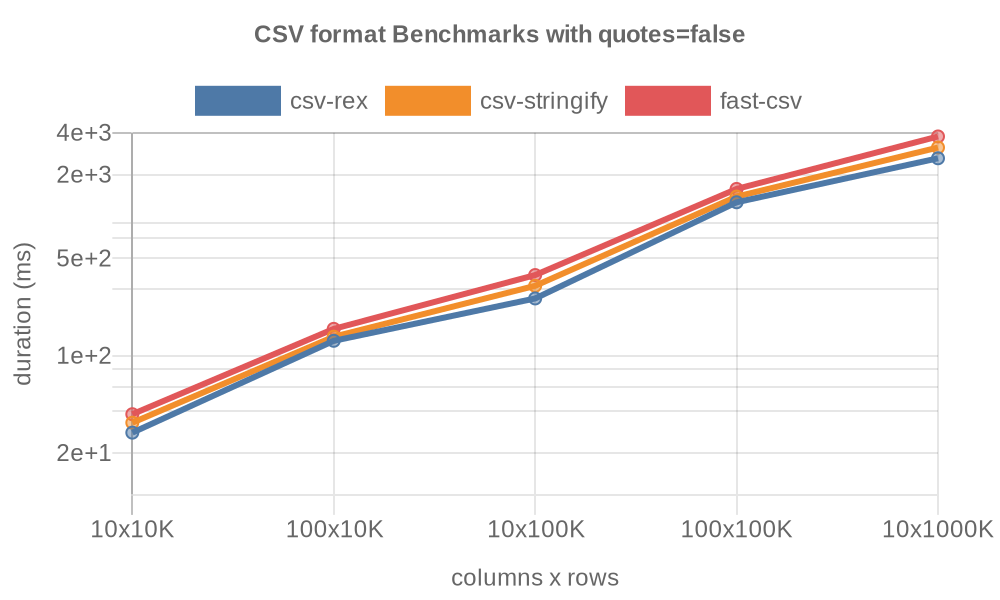
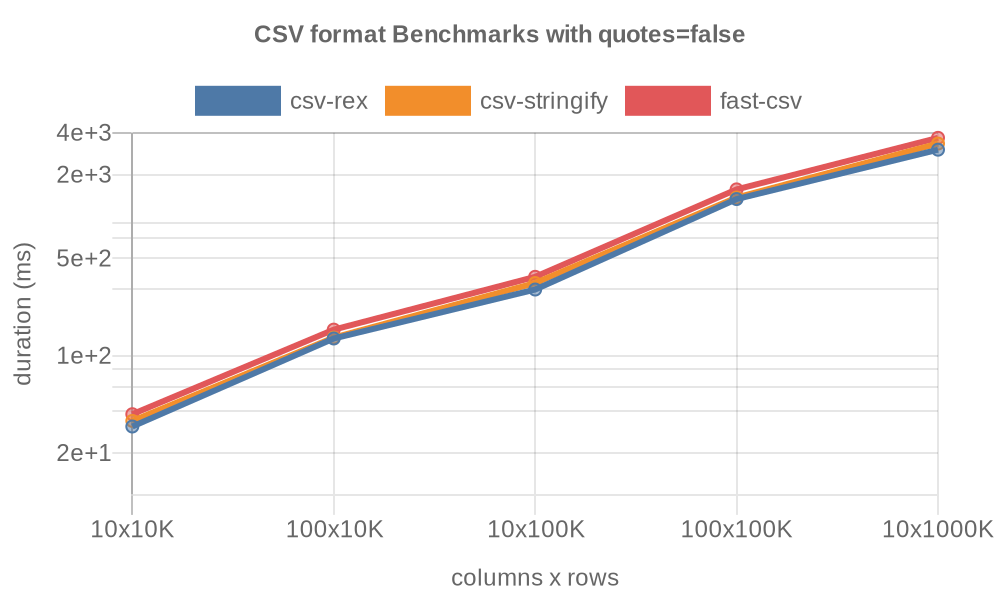
ci: update results

Changed region(s): [[0.124, 0.21, 0.961, 0.75]]

diff --git a/README.md b/README.md
@@ -5,14 +5,14 @@ Benchmarks of popular CSV parsers and formatters:
 <!-- packages -->
 | Package | Version | Published | Parse | Format 
 |---------|---------|-----------|-------|--------
-| [csv-parse](https://www.npmjs.com/package/csv-parse) | 5.3.3 | 1 month ago | Yes |  
+| [csv-parse](https://www.npmjs.com/package/csv-parse) | 5.3.4 | 1 day ago | Yes |  
 | [csv-parser](https://www.npmjs.com/package/csv-parser) | 3.0.0 | 2 years ago | Yes |  
-| [csv-rex](https://www.npmjs.com/package/csv-rex) | 0.4.2 | 4 months ago | Yes | Yes 
+| [csv-rex](https://www.npmjs.com/package/csv-rex) | 0.4.2 | 5 months ago | Yes | Yes 
 | [csv-streamify](https://www.npmjs.com/package/csv-streamify) | 4.0.0 | 5 years ago | Yes |  
-| [csv-stringify](https://www.npmjs.com/package/csv-stringify) | 6.2.3 | 1 month ago |  | Yes 
+| [csv-stringify](https://www.npmjs.com/package/csv-stringify) | 6.2.3 | 2 months ago |  | Yes 
 | [csvtojson](https://www.npmjs.com/package/csvtojson) | 2.0.10 | 4 years ago | Yes |  
 | [fast-csv](https://www.npmjs.com/package/fast-csv) | 4.3.6 | 2 years ago | Yes | Yes 
-| [papaparse](https://www.npmjs.com/package/papaparse) | 5.3.2 | 10 months ago | Yes |  
+| [papaparse](https://www.npmjs.com/package/papaparse) | 5.3.2 | 11 months ago | Yes |  
 <!-- packages -->
 
 Your preferred CSV package missing? PRs welcome. Excluded packages in `/docs/EXCLUDED.md`.
@@ -39,13 +39,13 @@ Benchmarked on GitHub Actions. Only the fastest 5 will be visualized.
 <!-- parse quotes=true -->
 | Package | 10x10K | 100x10K | 10x100K | 100x100K | 10x1000K 
 |---------|---|---|---|---|---
-| **csv-rex** | 32ms | 234ms | 295ms | 2,362ms | 2,952ms 
-| **papaparse** | 58ms | 264ms | 543ms | 2,689ms | 5,540ms 
-| **csv-parser** | 50ms | 445ms | 505ms | 4,794ms | 5,438ms 
-| **csvtojson** | 76ms | 572ms | 742ms | 5,735ms | 7,532ms 
-| **csv-parse** | 98ms | 842ms | 987ms | 8,609ms | 10,177ms 
-| **csv-streamify** | 102ms | 976ms | 1,141ms | 10,851ms | 12,549ms 
-| **fast-csv** | 153ms | 1,311ms | 1,538ms | 13,542ms | 15,651ms 
+| **csv-rex** | 32ms | 236ms | 301ms | 2,380ms | 3,020ms 
+| **papaparse** | 58ms | 273ms | 565ms | 2,721ms | 5,716ms 
+| **csv-parser** | 51ms | 442ms | 508ms | 4,770ms | 5,489ms 
+| **csvtojson** | 74ms | 571ms | 722ms | 5,740ms | 7,414ms 
+| **csv-parse** | 99ms | 836ms | 975ms | 8,695ms | 10,041ms 
+| **csv-streamify** | 99ms | 943ms | 1,100ms | 10,382ms | 12,089ms 
+| **fast-csv** | 149ms | 1,283ms | 1,504ms | 13,287ms | 15,520ms 
 <!-- parse quotes=true -->
 
 ![Non-Quoted CSV Parser Benchmarks](https://github.com/willfarrell/csv-benchmarks/raw/main/results/parse_quotes%3Dfalse.png)
@@ -53,13 +53,13 @@ Benchmarked on GitHub Actions. Only the fastest 5 will be visualized.
 <!-- parse quotes=false -->
 | Package | 10x10K | 100x10K | 10x100K | 100x100K | 10x1000K 
 |---------|---|---|---|---|---
-| **csv-rex** | 12ms | 55ms | 105ms | 546ms | 1,053ms 
-| **csvtojson** | 43ms | 309ms | 436ms | 3,124ms | 4,385ms 
-| **csv-parser** | 42ms | 379ms | 437ms | 4,105ms | 4,732ms 
-| **papaparse** | 178ms | 77ms | 1,562ms | 698ms | 14,099ms 
-| **csv-parse** | 74ms | 658ms | 781ms | 7,176ms | 8,537ms 
-| **csv-streamify** | 84ms | 846ms | 999ms | 9,606ms | 11,276ms 
-| **fast-csv** | 119ms | 1,046ms | 1,237ms | 10,933ms | 13,414ms 
+| **csv-rex** | 12ms | 55ms | 110ms | 550ms | 1,108ms 
+| **csvtojson** | 43ms | 314ms | 424ms | 3,140ms | 4,288ms 
+| **csv-parser** | 43ms | 389ms | 462ms | 4,204ms | 4,811ms 
+| **papaparse** | 179ms | 79ms | 1,569ms | 740ms | 14,129ms 
+| **csv-parse** | 74ms | 653ms | 779ms | 7,110ms | 8,402ms 
+| **csv-streamify** | 86ms | 870ms | 1,022ms | 9,825ms | 11,495ms 
+| **fast-csv** | 119ms | 1,046ms | 1,229ms | 10,822ms | 13,376ms 
 <!-- parse quotes=false -->
 
 ### Format
@@ -69,9 +69,9 @@ Benchmarked on GitHub Actions. Only the fastest 5 will be visualized.
 <!-- format quotes=false -->
 | Package | 10x10K | 100x10K | 10x100K | 100x100K | 10x1000K 
 |---------|---|---|---|---|---
-| **csv-rex** | 28ms | 128ms | 258ms | 1,267ms | 2,624ms 
-| **csv-stringify** | 33ms | 137ms | 318ms | 1,392ms | 3,136ms 
-| **fast-csv** | 38ms | 156ms | 380ms | 1,580ms | 3,765ms 
+| **csv-rex** | 31ms | 133ms | 299ms | 1,336ms | 3,025ms 
+| **csv-stringify** | 34ms | 135ms | 333ms | 1,370ms | 3,347ms 
+| **fast-csv** | 38ms | 154ms | 369ms | 1,568ms | 3,680ms 
 <!-- format quotes=false -->
 
 ## Thanks

diff --git a/results/parse_quotes=true.md b/results/parse_quotes=true.md
@@ -1,9 +1,9 @@
 | Package | 10x10K | 100x10K | 10x100K | 100x100K | 10x1000K 
 |---------|---|---|---|---|---
-| **csv-rex** | 32ms | 234ms | 295ms | 2,362ms | 2,952ms 
-| **papaparse** | 58ms | 264ms | 543ms | 2,689ms | 5,540ms 
-| **csv-parser** | 50ms | 445ms | 505ms | 4,794ms | 5,438ms 
-| **csvtojson** | 76ms | 572ms | 742ms | 5,735ms | 7,532ms 
-| **csv-parse** | 98ms | 842ms | 987ms | 8,609ms | 10,177ms 
-| **csv-streamify** | 102ms | 976ms | 1,141ms | 10,851ms | 12,549ms 
-| **fast-csv** | 153ms | 1,311ms | 1,538ms | 13,542ms | 15,651ms 
+| **csv-rex** | 32ms | 236ms | 301ms | 2,380ms | 3,020ms 
+| **papaparse** | 58ms | 273ms | 565ms | 2,721ms | 5,716ms 
+| **csv-parser** | 51ms | 442ms | 508ms | 4,770ms | 5,489ms 
+| **csvtojson** | 74ms | 571ms | 722ms | 5,740ms | 7,414ms 
+| **csv-parse** | 99ms | 836ms | 975ms | 8,695ms | 10,041ms 
+| **csv-streamify** | 99ms | 943ms | 1,100ms | 10,382ms | 12,089ms 
+| **fast-csv** | 149ms | 1,283ms | 1,504ms | 13,287ms | 15,520ms 

diff --git a/results/parse_quotes=false.md b/results/parse_quotes=false.md
@@ -1,9 +1,9 @@
 | Package | 10x10K | 100x10K | 10x100K | 100x100K | 10x1000K 
 |---------|---|---|---|---|---
-| **csv-rex** | 12ms | 55ms | 105ms | 546ms | 1,053ms 
-| **csvtojson** | 43ms | 309ms | 436ms | 3,124ms | 4,385ms 
-| **csv-parser** | 42ms | 379ms | 437ms | 4,105ms | 4,732ms 
-| **papaparse** | 178ms | 77ms | 1,562ms | 698ms | 14,099ms 
-| **csv-parse** | 74ms | 658ms | 781ms | 7,176ms | 8,537ms 
-| **csv-streamify** | 84ms | 846ms | 999ms | 9,606ms | 11,276ms 
-| **fast-csv** | 119ms | 1,046ms | 1,237ms | 10,933ms | 13,414ms 
+| **csv-rex** | 12ms | 55ms | 110ms | 550ms | 1,108ms 
+| **csvtojson** | 43ms | 314ms | 424ms | 3,140ms | 4,288ms 
+| **csv-parser** | 43ms | 389ms | 462ms | 4,204ms | 4,811ms 
+| **papaparse** | 179ms | 79ms | 1,569ms | 740ms | 14,129ms 
+| **csv-parse** | 74ms | 653ms | 779ms | 7,110ms | 8,402ms 
+| **csv-streamify** | 86ms | 870ms | 1,022ms | 9,825ms | 11,495ms 
+| **fast-csv** | 119ms | 1,046ms | 1,229ms | 10,822ms | 13,376ms 

diff --git a/results/format_quotes=false.md b/results/format_quotes=false.md
@@ -1,5 +1,5 @@
 | Package | 10x10K | 100x10K | 10x100K | 100x100K | 10x1000K 
 |---------|---|---|---|---|---
-| **csv-rex** | 28ms | 128ms | 258ms | 1,267ms | 2,624ms 
-| **csv-stringify** | 33ms | 137ms | 318ms | 1,392ms | 3,136ms 
-| **fast-csv** | 38ms | 156ms | 380ms | 1,580ms | 3,765ms 
+| **csv-rex** | 31ms | 133ms | 299ms | 1,336ms | 3,025ms 
+| **csv-stringify** | 34ms | 135ms | 333ms | 1,370ms | 3,347ms 
+| **fast-csv** | 38ms | 154ms | 369ms | 1,568ms | 3,680ms 
